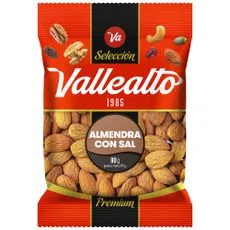
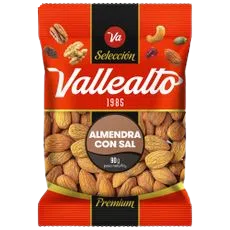
Se ha quitado el fondo a las imagenes y agregado el boton regresar

Changed region(s): [[0.1522, 0.0, 0.8522, 0.8522], [0.1522, 0.8522, 0.8522, 1.0]]

diff --git a/codigo.js b/codigo.js
@@ -7,7 +7,7 @@ function funcionProductos() {
 
         { id: 10, nombre: "Galleta Oreo", categoria: "DULCES", precioUnitario: 5.00, linkImagen: "oreoVainilla (2).png" },
         { id: 15, nombre: "Bombones", categoria: "DULCES", precioUnitario: 8.00, linkImagen: "bombonesRellenos.png" },
-        { id: 20, nombre: "Doritos salados", categoria: "SALADOS", precioUnitario: 4.00, linkImagen: "doritos.png" },
+        { id: 20, nombre: "Papas Picantes", categoria: "SALADOS", precioUnitario: 4.00, linkImagen: "papas.png" },
         { id: 25, nombre: "Inka Chips salados", categoria: "SALADOS", precioUnitario: 2.50, linkImagen: "inkaChips.png" },
         { id: 30, nombre: "Almendras", categoria: "SALUDABLES", precioUnitario: 10.50, linkImagen: "almendras.png" },
         { id: 35, nombre: "Nueces peladas", categoria: "SALUDABLES", precioUnitario: 12.50, linkImagen: "nuecesPeladas.png" },
@@ -31,17 +31,24 @@ function funcionProductos() {
     busquedaProducto(productos, carrito, contenedorProductos)
 
     let botonFinalizarCompra = document.getElementById("finalizarCompra")
-    botonFinalizarCompra.addEventListener("click", () => finalizarCompra(carrito))
+    botonFinalizarCompra.addEventListener("click", () => finalizarCompra(productos, carrito, contenedorProductos))
 }
 
-function finalizarCompra(carrito) {
+function finalizarCompra(arrayProductos, carrito, contenedorProductos) {
+    compraRealizada()
     let carritoFisico = document.getElementById("pantallaCarrito")
     let botonFinalizarCompra = document.getElementById("finalizarCompra")
+    //botonFinalizarCompra.addEventListener("click", compraRealizada)
+    //carritoFisico.innerHTML =  `<h1>Gracias por su compra </h1>`
     carritoFisico.innerHTML = ""
     botonFinalizarCompra.classList.add("oculto")
     localStorage.clear()
     carrito.splice(0, carrito.length) // Para que se borre el carrito cuando finalice la compra
-    renderizarCarrito(carrito)
+    
+    
+    funcionBotonRegresar(arrayProductos, carrito, contenedorProductos)
+
+    
 
     //let carritoFisico = document.getElementById("contenedorCarrito")
     
@@ -50,11 +57,24 @@ function finalizarCompra(carrito) {
     //localStorage.clear()
 }
 
+function funcionBotonRegresar(arrayProductos, carrito, contenedorProductos){
+    
+    
+    let botonRegresar= document.getElementById("salirDeCarrito")
+    botonRegresar.addEventListener("click", () => creacionTarjetaProductos(arrayProductos, carrito, contenedorProductos))
+    mostrarOcultar()
+}
+
+
+
+
 function renderizarCarrito(carritoJSON) {
+    
+    
     let carritoFisico = document.getElementById("pantallaCarrito")
     carritoFisico.innerHTML = ""
 
-    carritoFisico.innerHTML = `<h1 class="pantallaCarritoTitulo">Su carrito contiene los siguientes productos </h1>`
+    carritoFisico.innerHTML = `<h1 class="pantallaCarritoTitulo" id="pantallaCarritoTituloId">Su carrito contiene los siguientes productos </h1>`
 
     carritoJSON.forEach(({ nombre, precioUnitario, unidades, subtotal, linkImagen, id }) => {
         let elementoDelCarrito = document.createElement("div")
@@ -117,6 +137,7 @@ function eliminarProductoDelCarrito(carrito, e) {
 
 function agregarAlCarrito(e, arrayProductos, carrito) {
 
+    
 
     let idProducto = e.target.id
     //console.log(e.target.id)
@@ -156,10 +177,14 @@ botonCarrito.addEventListener("click", mostrarOcultar)
 
 
 function mostrarOcultar() {
+    let botonFinalizarCompra = document.getElementById("finalizarCompra")
     let padreContenedor = document.getElementById("main__containerId")
     let carrito = document.getElementById("contenedorCarrito")
     padreContenedor.classList.toggle("cortina")
     carrito.classList.toggle("oculto")
+
+    botonFinalizarCompra.classList.remove("oculto")
+    
 }
 
 
@@ -210,6 +235,7 @@ function creacionTarjetaProductos(arrayProductos, carrito, contenedorProductos) 
 
     PaginaNoEncontrada.classList.add("oculto")
     contenedorProductos.classList.remove("oculto")
+    
     //pantallaCarrito.classList.add("oculto")
 
     arrayProductos.forEach(cadaProducto => {
@@ -234,6 +260,15 @@ function creacionTarjetaProductos(arrayProductos, carrito, contenedorProductos) 
         botonAgregarAlCarrito.addEventListener("click", (e) => agregarAlCarrito(e, arrayProductos, carrito))
         botonAgregarAlCarrito.addEventListener("click", alertaProductoAgregado)
     })
+
+    // Para que al tocar regresar, se muestren todos los productos de nuevo
+
+    /* let padreContenedor = document.getElementById("main__containerId")
+    let carrito2 = document.getElementById("contenedorCarrito")
+    padreContenedor.classList.toggle("cortina")
+    carrito2.classList.toggle("oculto") */
+
+
 
 }
 
@@ -362,6 +397,16 @@ function alertaProductoAgregado() {
     }).showToast();
 }
 
+function compraRealizada(){
+
+    Swal.fire({
+        position: 'top-center',
+        icon: 'success',
+        title: 'GRACIAS POR SU COMPRA',
+        showConfirmButton: false,
+        timer: 1000
+      })
+}
 
 
 
